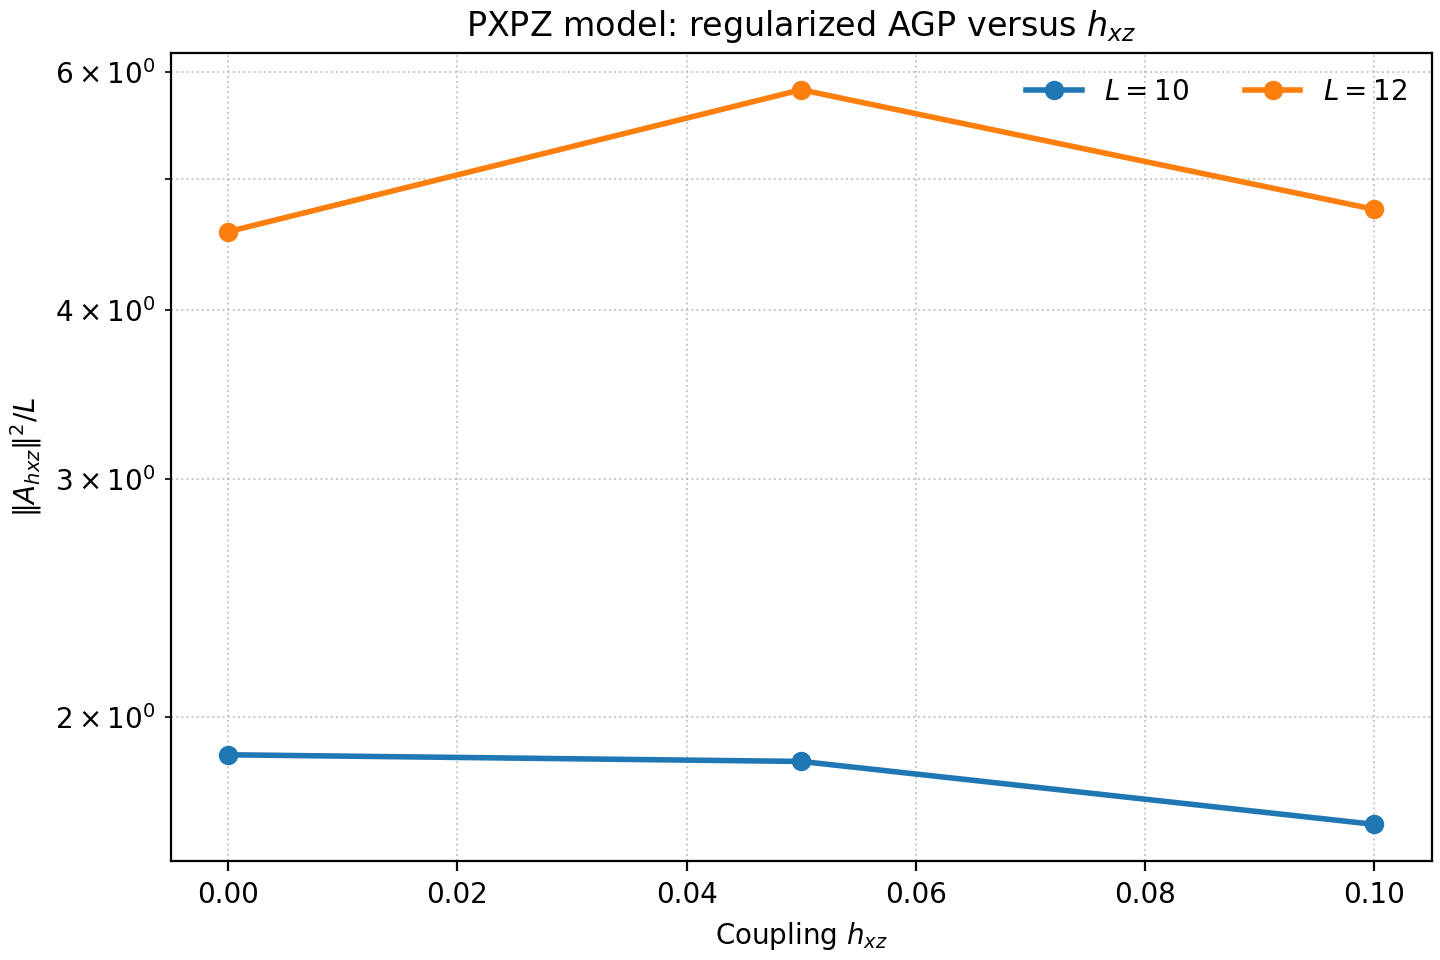
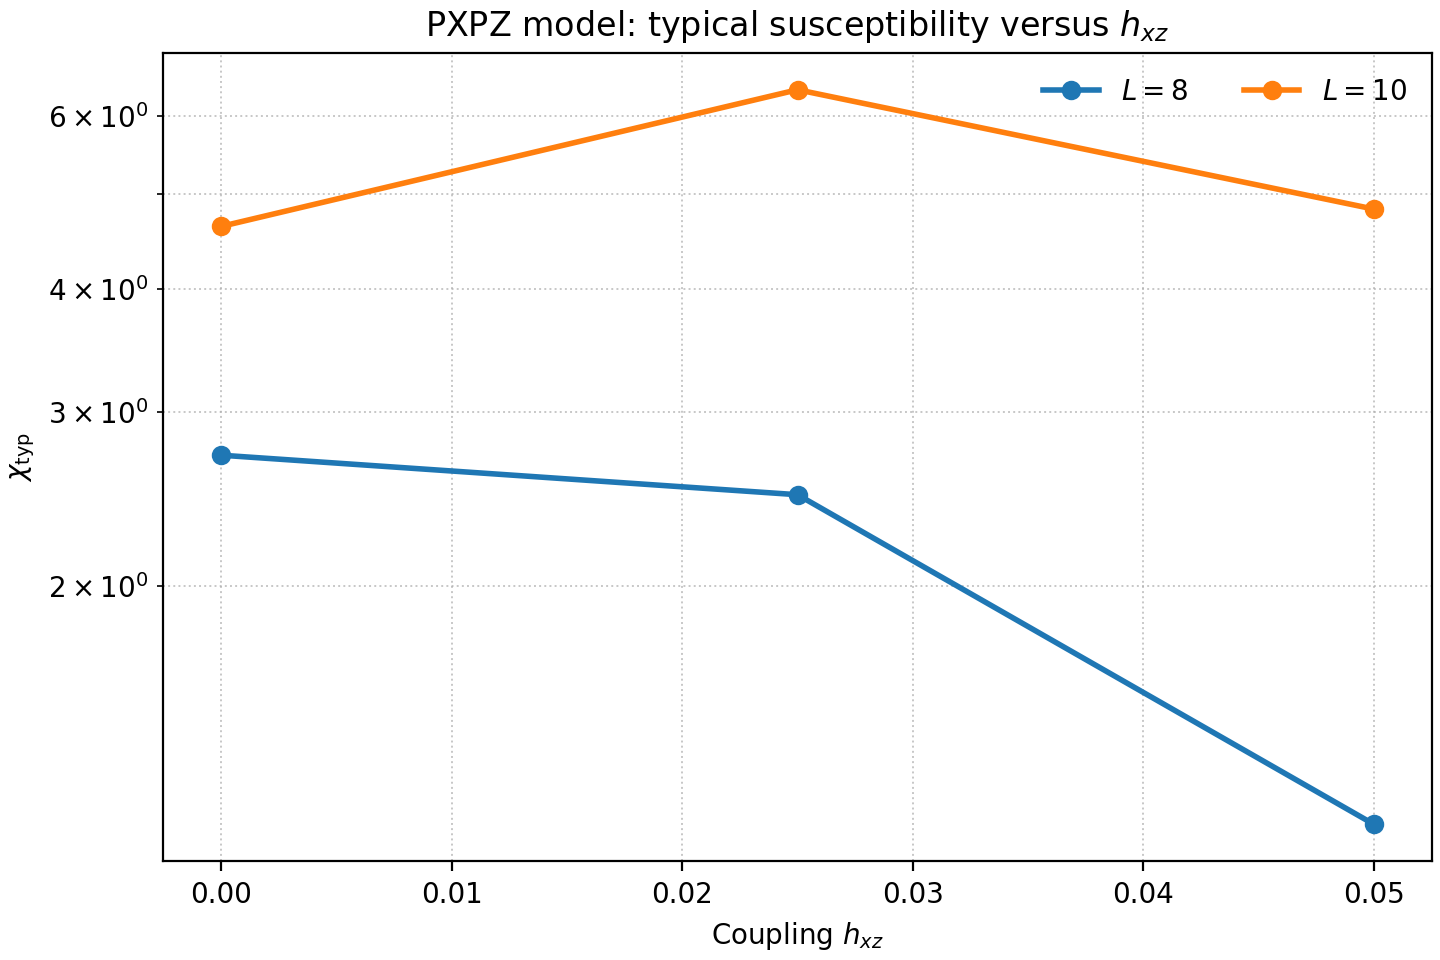
update results of hxz sweep; separation of AGP typical vs regularized

diff --git a/pxp_agp_scaling.py b/pxp_agp_scaling.py
@@ -665,7 +665,7 @@ def parse_args() -> argparse.Namespace:
     parser = argparse.ArgumentParser(description=__doc__)
     parser.add_argument(
         "--mode",
-        choices=["hxz", "size", "spectral", "spacing"],
+        choices=["hxz", "size", "spectral", "spacing", "typical"],
         default="hxz",
         help="Plot AGP versus hxz, AGP versus L, standalone spectral function, or mean level-spacing ratio.",
     )
@@ -740,6 +740,12 @@ def parse_args() -> argparse.Namespace:
         type=Path,
         default=Path("pxp_spacing_ratio.png"),
         help="Output image path for the level-spacing-ratio plot.",
+    )
+    parser.add_argument(
+        "--chi-typ-output",
+        type=Path,
+        default=Path("pxp_chi_typ.png"),
+        help="Output image path for the typical-susceptibility plot.",
     )
     parser.add_argument(
         "--spectral-bins",
@@ -889,6 +895,34 @@ def main() -> None:
             save_spacing_results(spacing_results, spacing_cache_path)
 
         plot_pxp_spacing_series(spacing_results, args.spacing_output)
+    elif args.mode == "typical":
+        hxz_values = np.linspace(args.hxz_min, args.hxz_max, args.hxz_count)
+        if len(hxz_values) == 0:
+            raise ValueError("No hxz values selected.")
+
+        print(f"Computing typical susceptibility for L = {l_values}")
+        print(f"Sweeping hxz over {hxz_values[0]:.5f} to {hxz_values[-1]:.5f} in {len(hxz_values)} steps")
+        chi_params = dict(
+            l_values=list(l_values),
+            hxz_min=float(hxz_values[0]),
+            hxz_max=float(hxz_values[-1]),
+            hxz_count=int(len(hxz_values)),
+            boundary=args.boundary,
+        )
+        chi_cache_path = _make_cache_path("chi_typ", chi_params)
+        if (not args.force) and chi_cache_path.exists():
+            print(f"Loading cached chi_typ results from {chi_cache_path}")
+            chi_results = load_chi_typ_results(chi_cache_path)
+        else:
+            chi_results = compute_pxp_chi_typ_series(
+                l_values,
+                hxz_values=hxz_values,
+                symmetry=(False, False),
+                boundary=args.boundary,
+            )
+            save_chi_typ_results(chi_results, chi_cache_path)
+
+        plot_pxp_chi_typ_series(chi_results, args.chi_typ_output)
 
 
 if __name__ == "__main__":